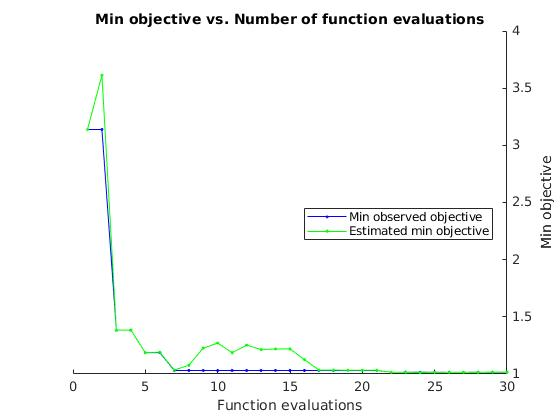
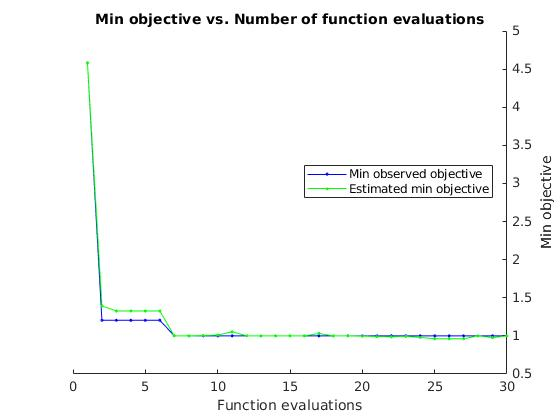
Correct error(1/2) in computing BayesOpt function

diff --git a/choose_lambda_bayesopt.m b/choose_lambda_bayesopt.m
@@ -21,7 +21,7 @@ K = 5;
 L = 50;
 lambdaL1H = 0;
 lambda_var = optimizableVariable('lambda', [1e-4, 1e-1], 'Transform', 'log');
-lambdaW_var = optimizableVariable('lambdaL1W', [1e-4, 1e-1], 'Transform', 'log');
+lambdaW_var = optimizableVariable('lambdaL1W', [1e-3, 1], 'Transform', 'log');
 alpha_var = optimizableVariable('alpha', [1e-6, 1e-2], 'Transform', 'log');
 fun = @(x)compute_error_balance_score(X,K,L,x.lambda,lambdaL1H,x.lambdaL1W,x.alpha);
 results = bayesopt(fun, [lambda_var,lambdaW_var,alpha_var],'AcquisitionFunctionName','expected-improvement-plus')

diff --git a/compute_error_balance_score.m b/compute_error_balance_score.m
@@ -7,6 +7,7 @@ function score = compute_error_balance_score(X,K,L,lambda,lambdaL1H,lambdaL1W,al
 [W_hat,H_hat,cost,loadings,power] = FlexMF(X,'K',K, 'L', L, 'maxiter', 50,...
     'lambda', lambda, 'alpha', alpha, 'lambdaL1W', lambdaL1W, 'lambdaL1H', lambdaL1H, 'showPlot', 0);
 [recon_error, reg_cross, reg_W, reg_H] = helper.get_FlexMF_cost(X,W_hat,H_hat);
+recon_error = recon_error/2;
 reg_cross = reg_cross*lambda;
 reg_W = reg_W*lambdaL1W;
 reg_H = reg_H*lambdaL1H;

diff --git a/demo.m b/demo.m
@@ -30,10 +30,10 @@ X = X/nuc_norm*size(X,1);
 %% Fit with FlexMF
 K = 5;
 L = 50;
-lambda = 0.016;
-alpha = 4.6e-4;
+lambda = 0.0086;
+alpha = 0.00076;
 lambdaL1H = 0;
-lambdaL1W = .1;
+lambdaL1W = 0.021;
 shg; clf
 display('Running FlexMF on simulated data (3 simulated sequences + noise)')
 tic
